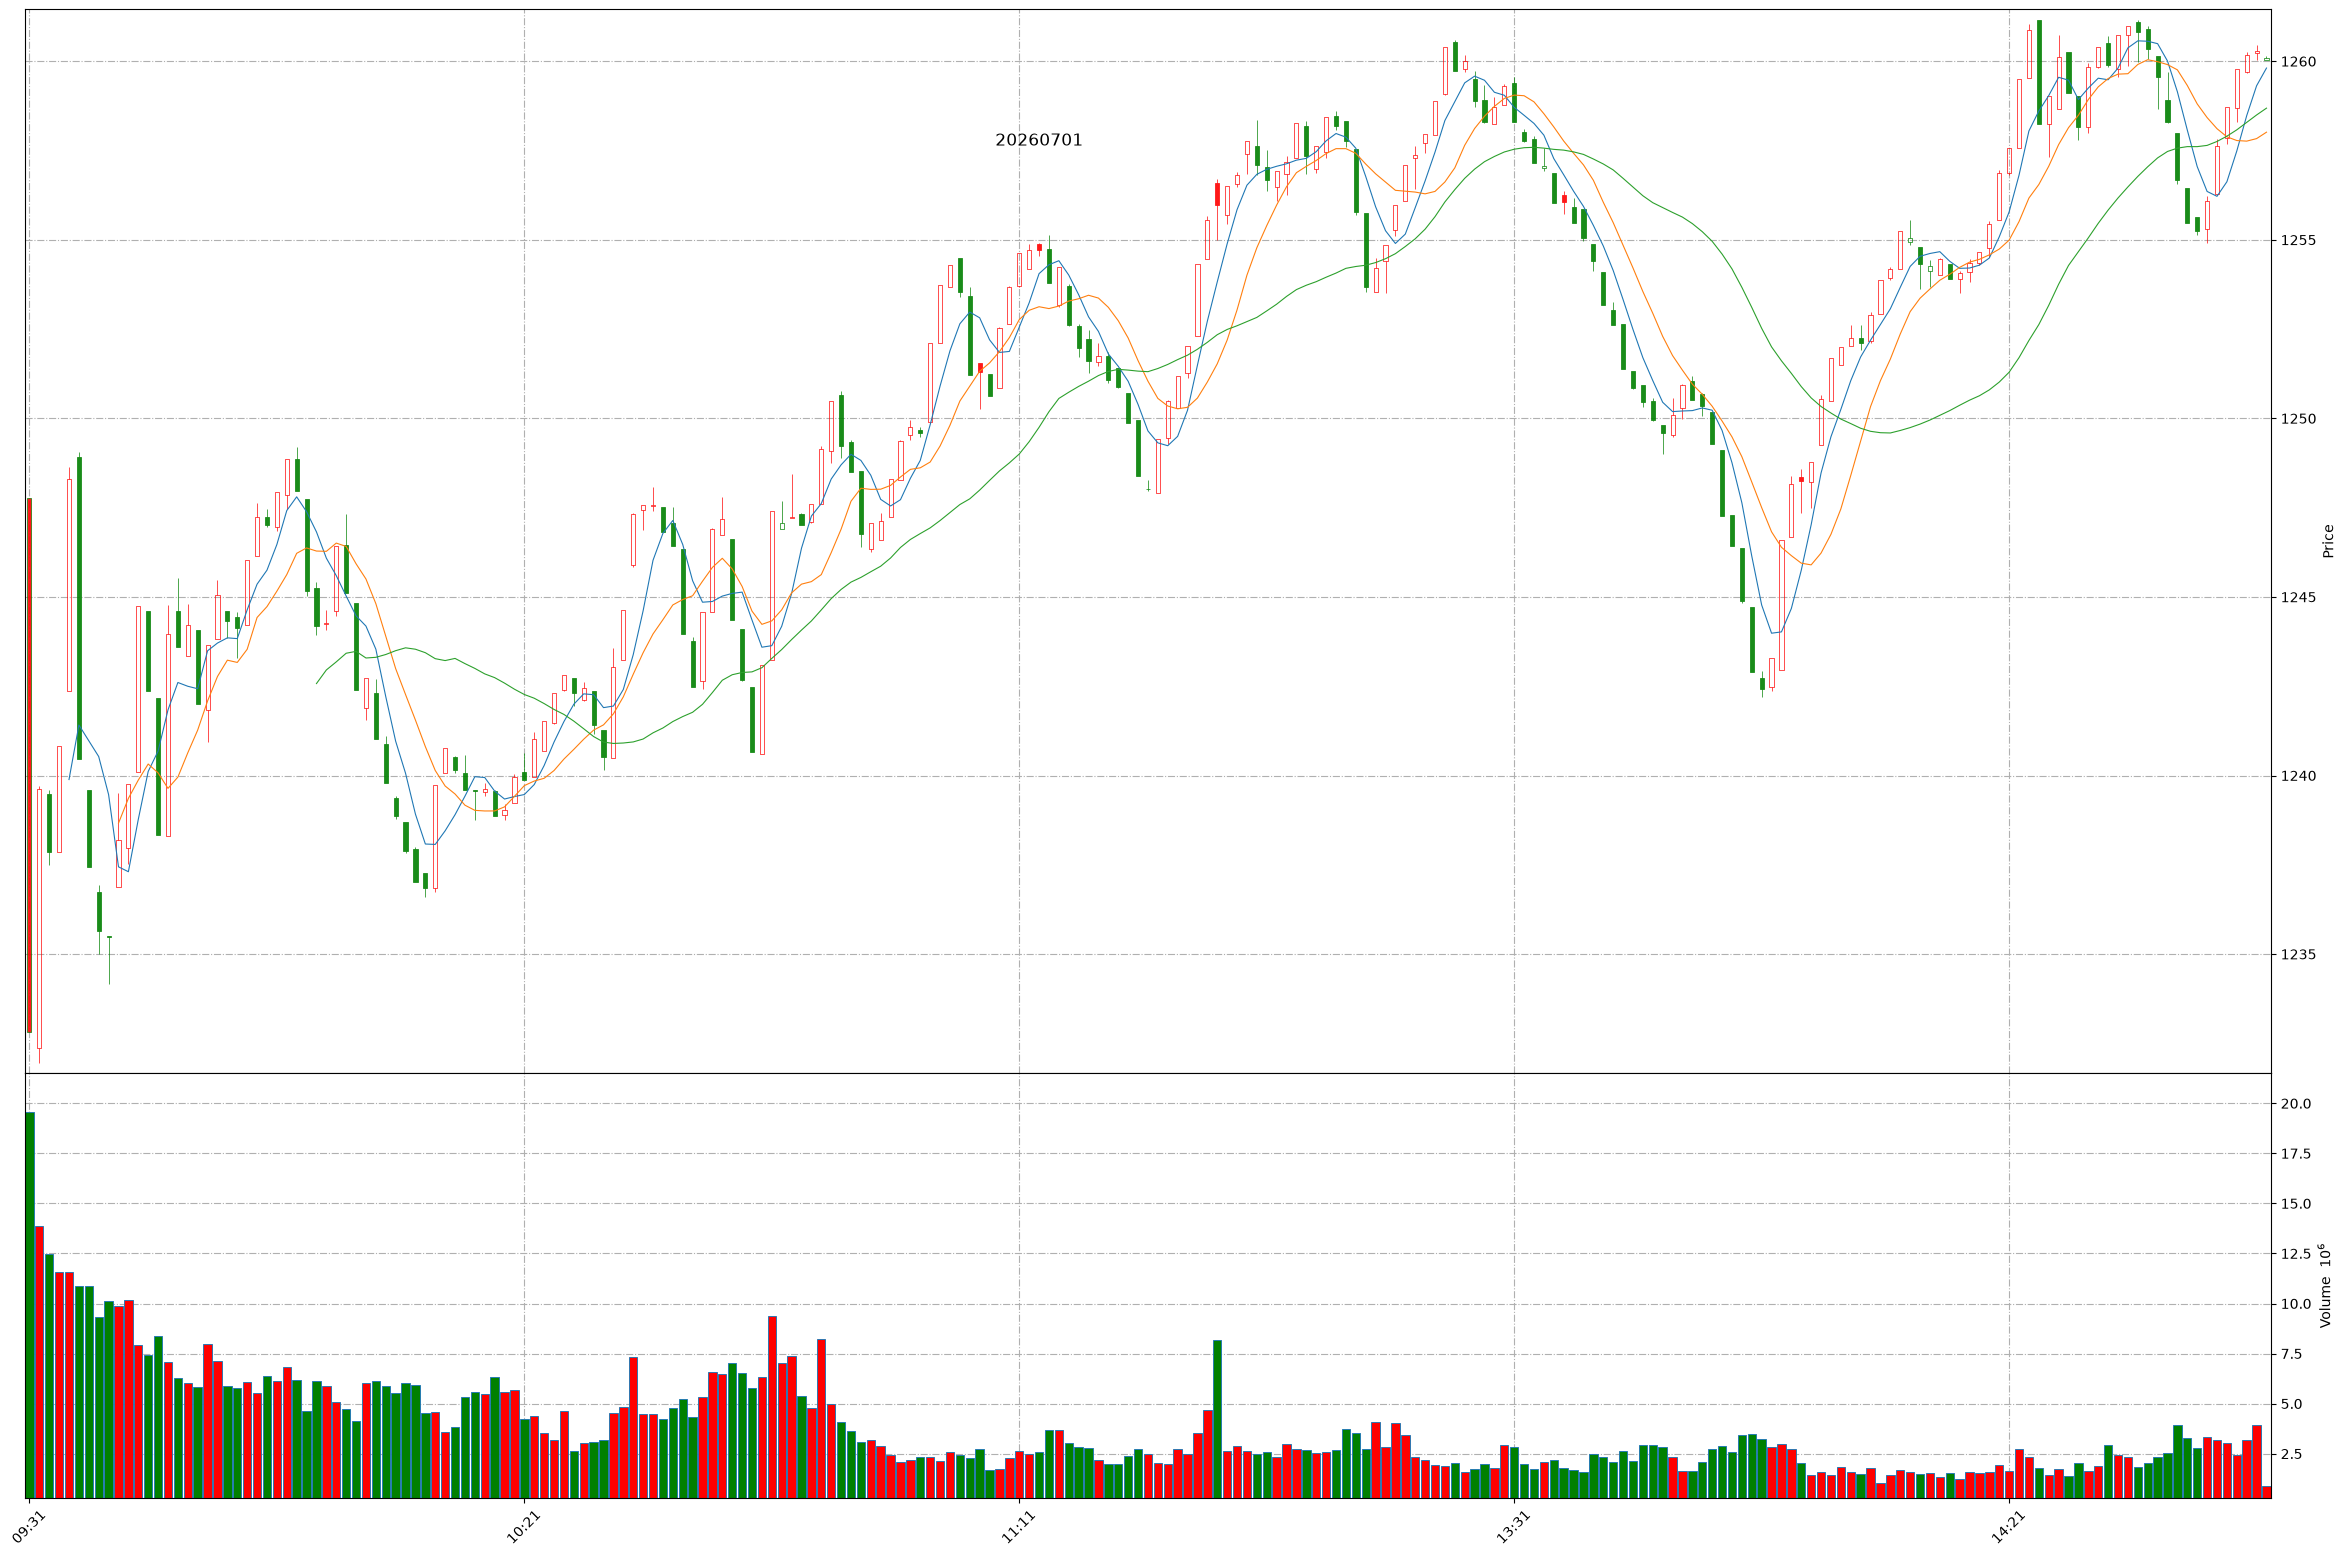
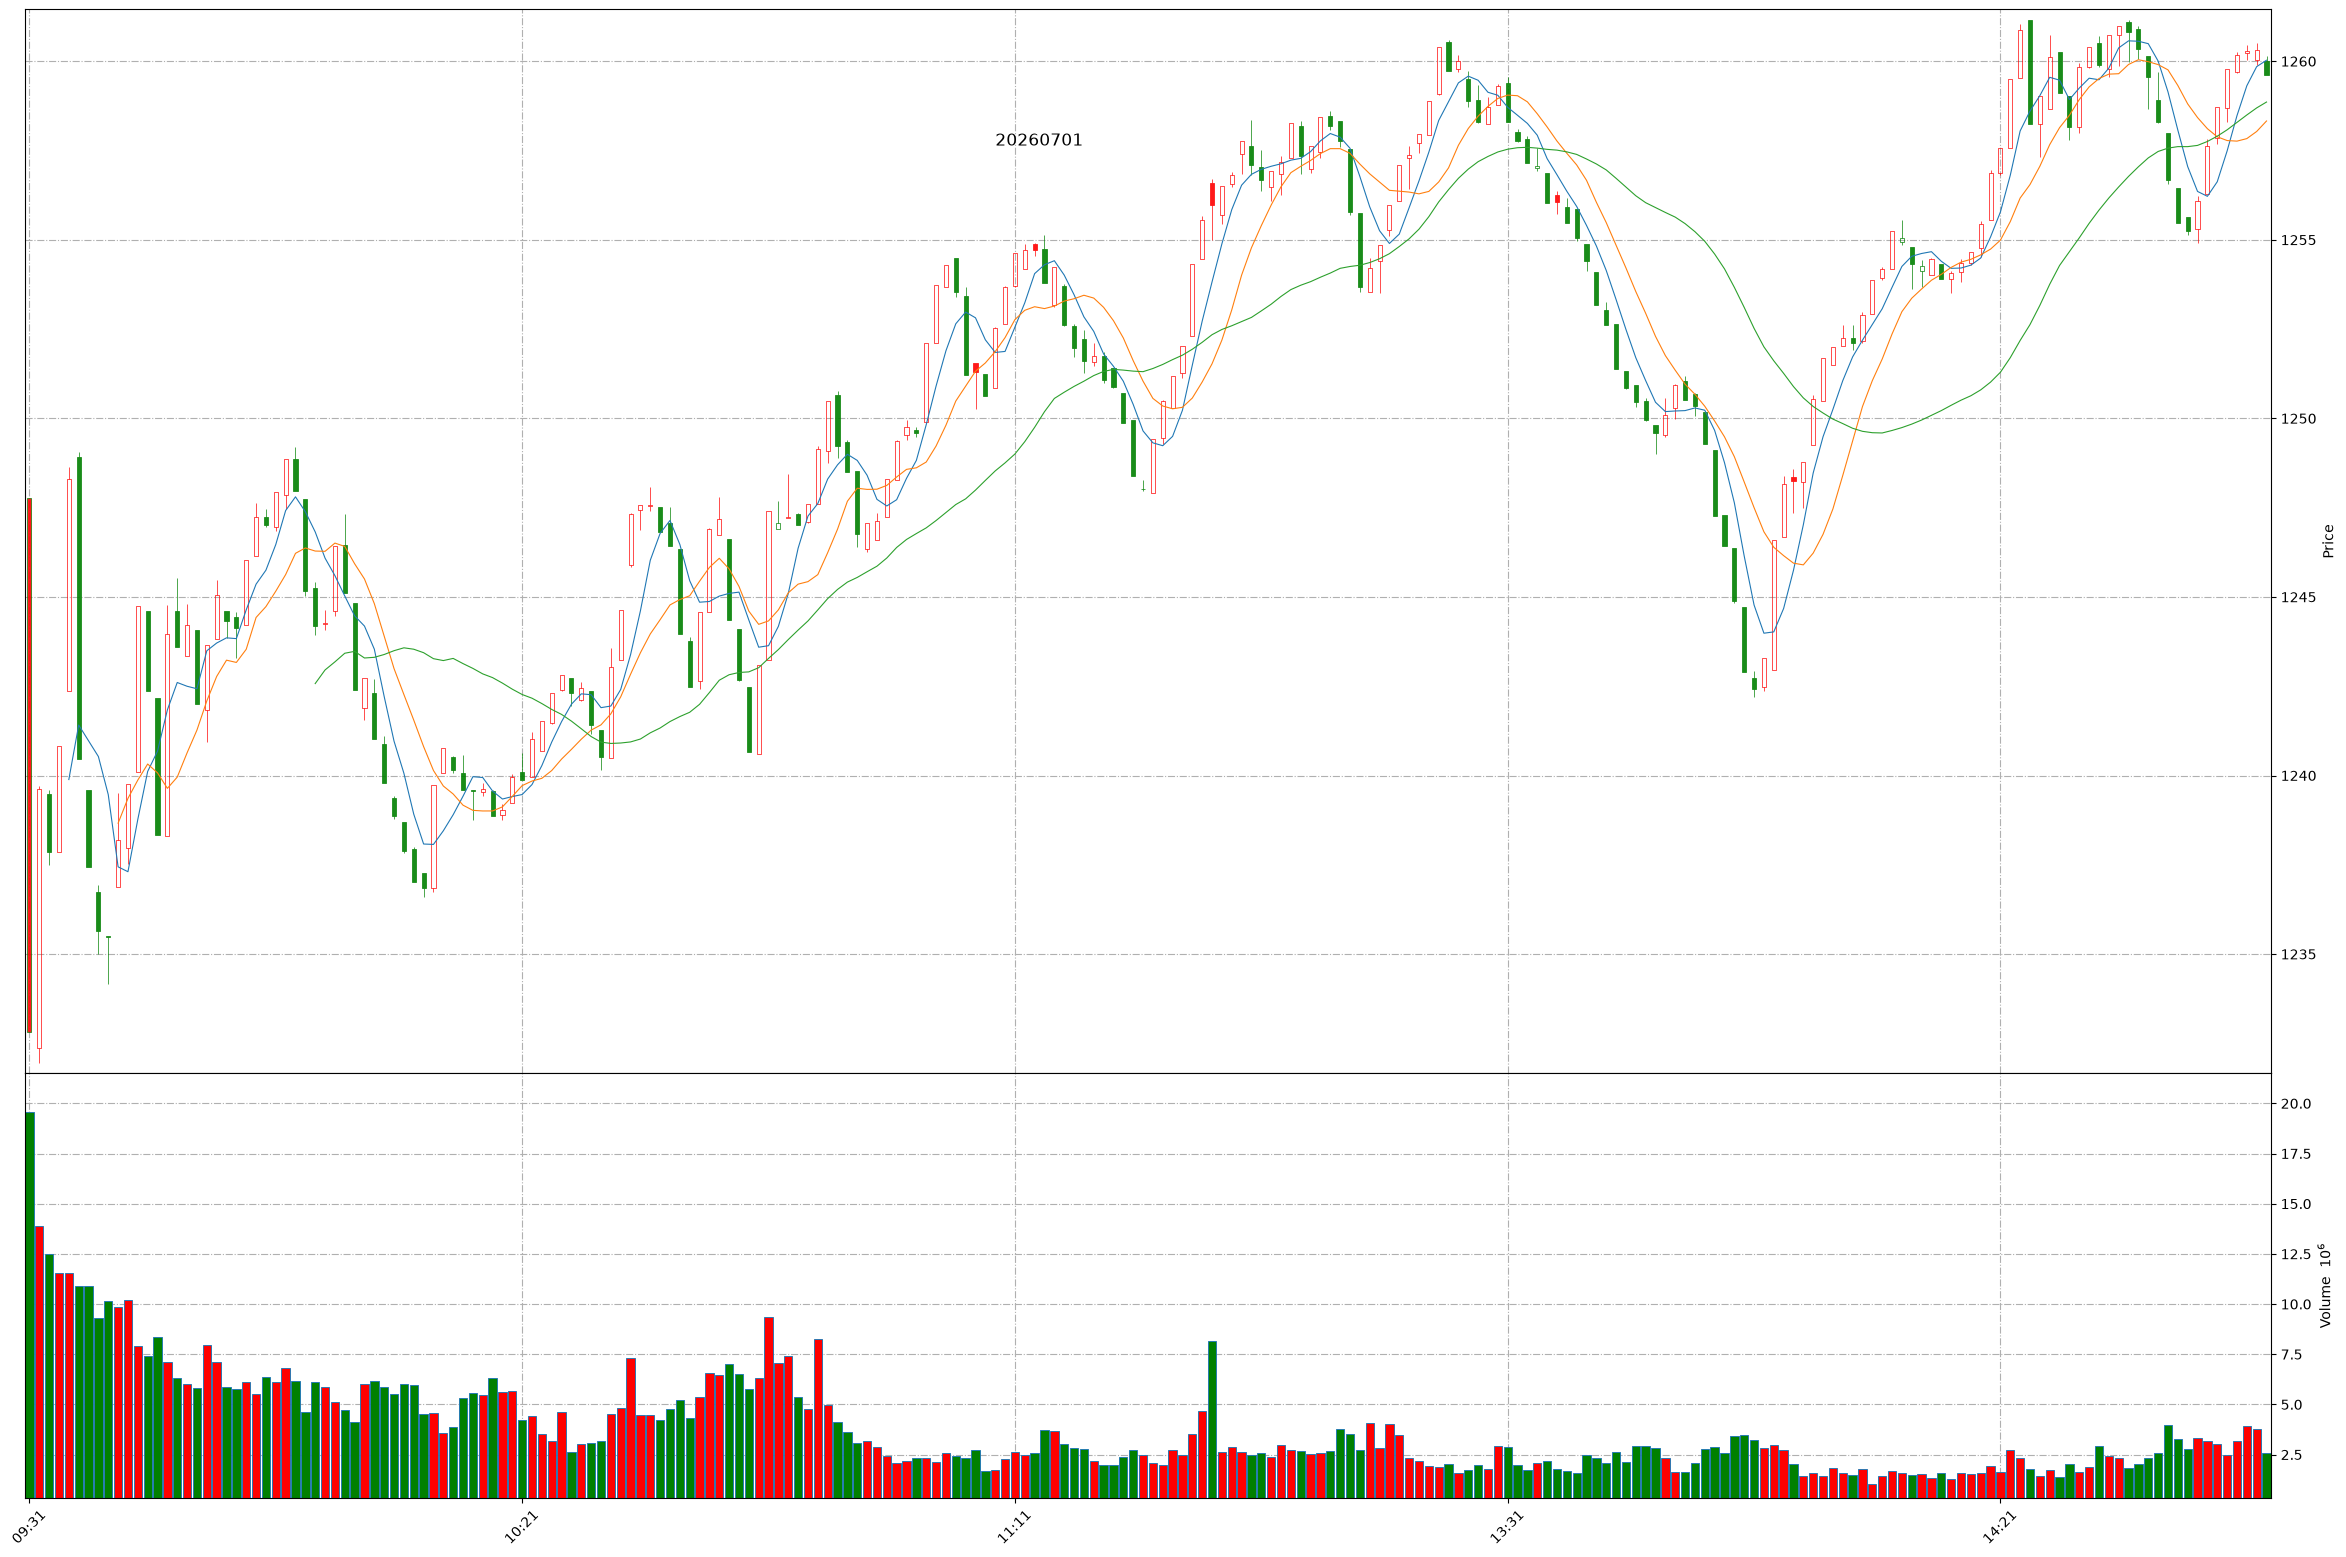
Github action update at 2026-07-01 14:47:55.

diff --git a/README.md b/README.md
@@ -1,11 +1,11 @@
 
 # Daily-A-share-market-quotes 每日 A 股指数（5min 更新）- 20260701
 
-### 上证指数 20260701 14:46
+### 上证指数 20260701 14:47
 ![](./fig/2026/7/20260701-sh000001.png)
 
-### 深证成指 20260701 14:46
+### 深证成指 20260701 14:47
 ![](./fig/2026/7/20260701-sz399001.png)
 
-### 北证50 20260701 14:46
+### 北证50 20260701 14:47
 ![](./fig/2026/7/20260701-bj899050.png)
